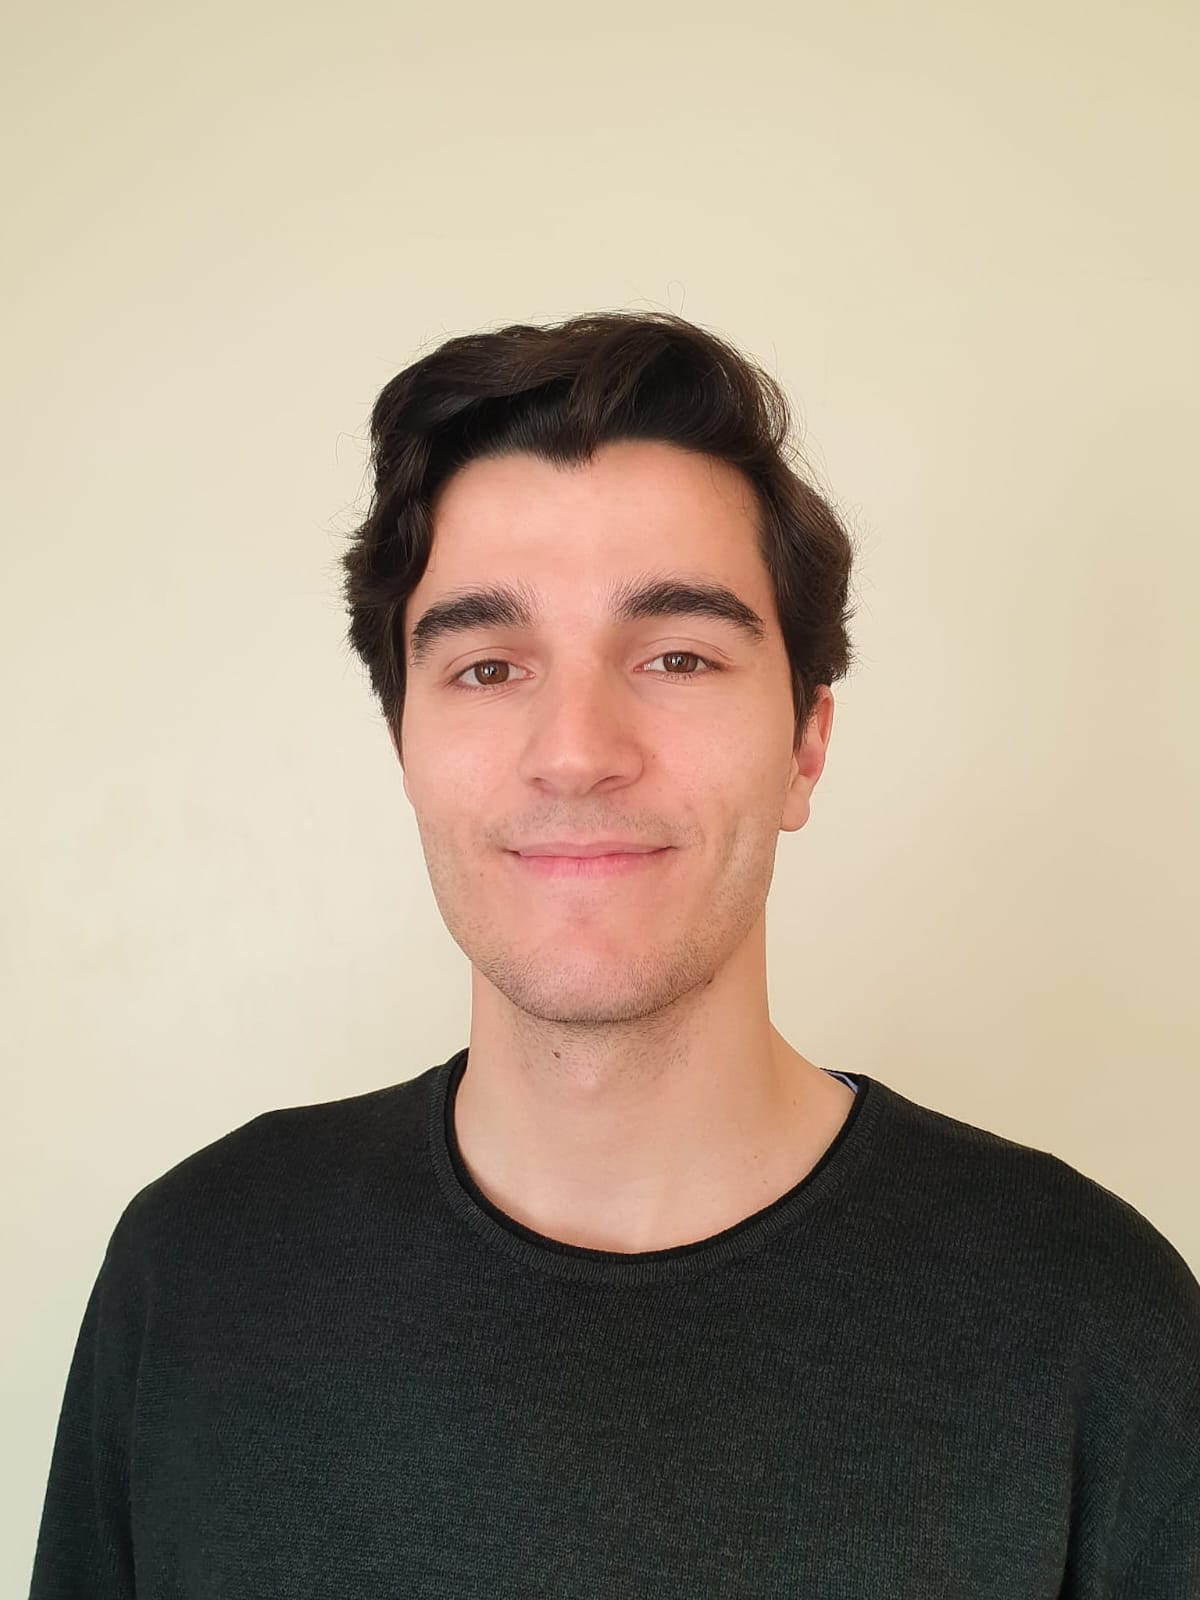
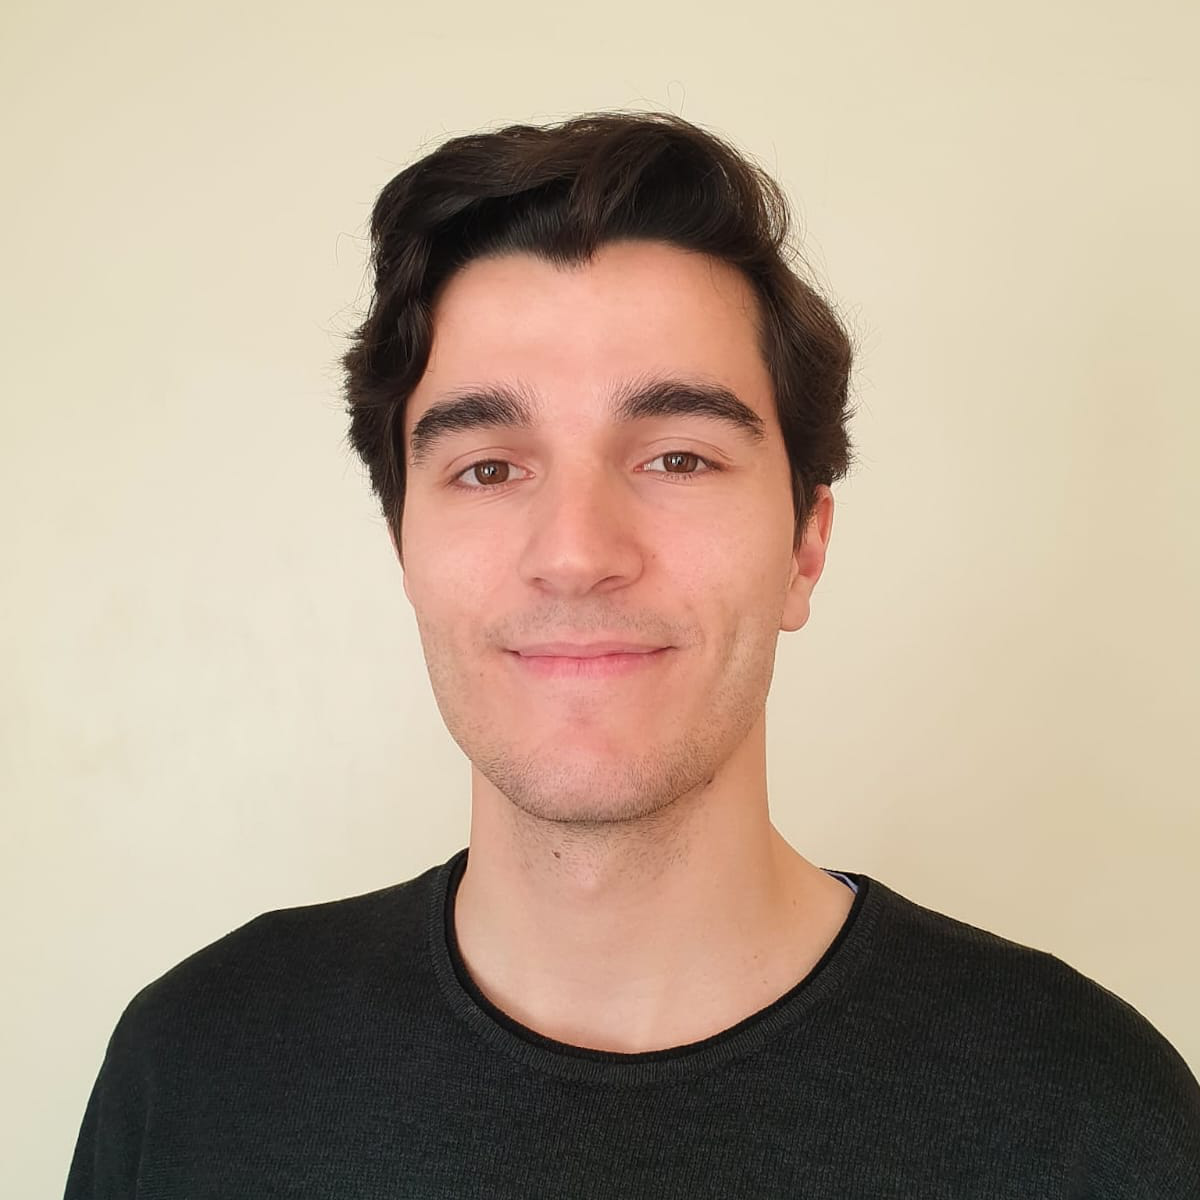
png

diff --git a/_sass/minimal-light.scss b/_sass/minimal-light.scss
@@ -207,12 +207,7 @@ papertitle {
     }
 
     .image.avatar {
-      /* Ensure the container is square. Adjust width and height as needed */
-      width: 100px; /* Example width */
-      height: 100px; /* Example height */
-      display: flex; /* This can help center the image */
-      justify-content: center;
-      align-items: center;
+      border-radius: 100%;
     }
 
       .image.avatar:before {
@@ -221,10 +216,11 @@ papertitle {
 
       .image.avatar img {
         border-radius: 100%;
-        width: 100%; /* Adjust to fill the container */
-        height: 100%; /* Equal to width for a perfect circle */
-        object-fit: cover; /* To handle non-square images */
-        padding: 0; /* Remove padding */
+        width: 45%;
+        padding: 20px;
+        // border: 1px solid #ddd;
+        // padding: 3px;
+        // box-shadow: 0 -1px 5px 1px rgba(200, 200, 200, 0.3);
       }
 
     #header .image.avatar {
